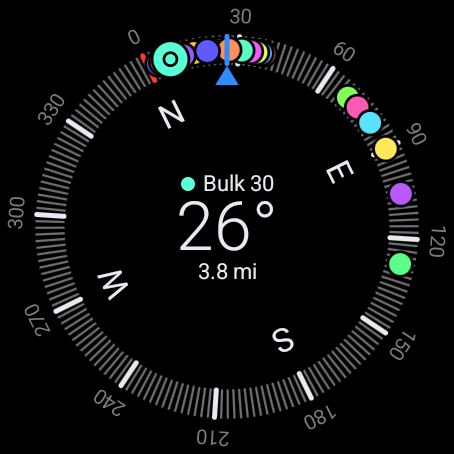
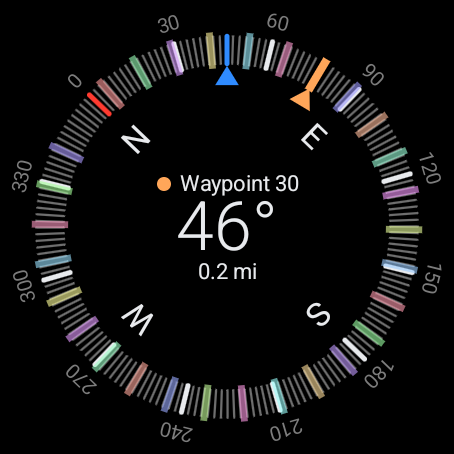
Draw targets as lines with an arrow on the focused one, and a heavier line when facing it
Adds nextFacing (within 2 degrees, until beyond 3; off while the dial is
frozen or catching up), decided in the compass frame loop. Shared colors
are named by role in ui/Instrument.kt.

Claude-Session: https://claude.ai/code/session_01Uph7YehLtr2NPXweYH2Zkf

diff --git a/app/src/main/java/com/infinite8looper/compass/ui/CompassDial.kt b/app/src/main/java/com/infinite8looper/compass/ui/CompassDial.kt
@@ -6,13 +6,13 @@ import androidx.compose.foundation.layout.fillMaxSize
 import androidx.compose.runtime.Composable
 import androidx.compose.runtime.remember
 import androidx.compose.ui.Modifier
+import androidx.compose.ui.draw.drawBehind
 import androidx.compose.ui.draw.drawWithCache
 import androidx.compose.ui.geometry.Offset
 import androidx.compose.ui.graphics.Color
 import androidx.compose.ui.graphics.Path
 import androidx.compose.ui.graphics.StrokeCap
 import androidx.compose.ui.graphics.drawscope.DrawScope
-import androidx.compose.ui.graphics.drawscope.Stroke
 import androidx.compose.ui.graphics.drawscope.rotate
 import androidx.compose.ui.graphics.graphicsLayer
 import androidx.compose.ui.text.TextLayoutResult
@@ -21,12 +21,8 @@ import androidx.compose.ui.text.drawText
 import androidx.compose.ui.text.rememberTextMeasurer
 import com.infinite8looper.compass.nav.TargetUi
 
-val HeadingBlue = Color(0xFF2F8BFF)
-val NorthRed = Color(0xFFFF3B30)
 private val TickGray = Color(0xFF6E6E6E)
 private val LabelGray = Color(0xFF7C7C7C)
-/** The light color of text, heavy ticks and outlines. */
-internal val Ink = Color(0xFFE8EAED)
 
 // Fractions of the dial radius, shared with the screen so its readout can stay inside the letters.
 private const val RING_OUTER = 0.84f
@@ -36,18 +32,41 @@ private const val LETTER_SIZE = 0.146f
 /** Nothing but the readout is drawn inside this fraction of the radius: the letters' inner edge is at about 0.50. */
 internal const val READOUT_RADIUS = 0.47f
 
-fun waypointColor(hue: Float): Color = Color.hsv(hue, 0.65f, 1f)
+private const val HEAVY_TICK = 0.022f
+// A target's line runs a little past both edges of the ring and is heavier than a heavy tick.
+private const val MARKER_OUTER = 0.86f
+private const val MARKER_INNER = 0.70f
+private const val MARKER_WIDTH = 0.036f
+private const val MARKER_WIDTH_OTHER = 0.030f
+private const val MARKER_CASING = 0.012f
+// While the wearer faces the focused target its line is twice as heavy and a little longer.
+private const val FACING_WIDTH = 2f * MARKER_WIDTH
+private const val FACING_EXTRA_LENGTH = 0.012f
+// The heading pointer's triangle. The focused target's arrow is the same triangle, turned to the target's bearing.
+private const val ARROW_TIP = 0.71f
+private const val ARROW_BASE = 0.625f
+private const val ARROW_HALF_WIDTH = 0.052f
 
 /**
- * The dial is three stacked layers. The face (ticks, degree labels, letters) and the target markers are each
- * drawn once and then turned by their layer's rotation, which is read from [headingProvider] when the layer is
- * updated: a new heading neither recomposes nor redraws them. The pointer on top does not move.
+ * The dial is stacked layers. The face (ticks, degree labels, letters), the lines of the targets that are not
+ * focused, and the focused target's line and arrow are each drawn once and then turned by their layer's rotation,
+ * which is read from [headingProvider] when the layer is updated: a new heading neither recomposes nor redraws
+ * them. The pointer does not move.
+ *
+ * [facing] is read only where the focused target's layer is drawn, so a change of it redraws that one layer, once.
+ *
+ * Order, from the bottom: face, other targets, the pointer's line, the focused target, the pointer's triangle.
+ * The focused target is above every other target's line, so nothing at the same bearing hides it. When the wearer
+ * faces it, its arrow lies exactly under the pointer's triangle and its heavy line covers the pointer's line:
+ * the triangle keeps the pointer's color and the line above it has the target's.
  */
 @Composable
-fun CompassDial(headingProvider: () -> Float, targets: List<TargetUi>, modifier: Modifier = Modifier) {
+fun CompassDial(
+    headingProvider: () -> Float, targets: List<TargetUi>, modifier: Modifier = Modifier, facing: () -> Boolean = { false },
+) {
     val measurer = rememberTextMeasurer()
-    // Unfocused markers first so the focused one is drawn on top.
-    val markers = remember(targets) { targets.filter { it.dialAngleDeg != null }.sortedBy { it.focused } }
+    val others = remember(targets) { targets.filter { it.dialAngleDeg != null && !it.focused } }
+    val focused = remember(targets) { targets.firstOrNull { it.dialAngleDeg != null && it.focused } }
     val turn: () -> Float = { headingProvider().let { if (it.isNaN()) 0f else -it } }
 
     Box(modifier.fillMaxSize()) {
@@ -63,9 +82,9 @@ fun CompassDial(headingProvider: () -> Float, targets: List<TargetUi>, modifier:
                     val heavy = d % 30 == 0
                     rotate(d.toFloat(), c) {
                         drawLine(
-                            color = if (d == 0) NorthRed else if (heavy) Ink else TickGray,
+                            color = if (d == 0) NorthColor else if (heavy) Ink else TickGray,
                             start = Offset(c.x, c.y - r * RING_OUTER), end = Offset(c.x, c.y - r * RING_INNER),
-                            strokeWidth = if (heavy) r * 0.022f else r * 0.01f, cap = StrokeCap.Round,
+                            strokeWidth = if (heavy) r * HEAVY_TICK else r * 0.01f, cap = StrokeCap.Round,
                         )
                     }
                 }
@@ -74,36 +93,64 @@ fun CompassDial(headingProvider: () -> Float, targets: List<TargetUi>, modifier:
             }
         })
 
-        Spacer(Modifier.fillMaxSize().graphicsLayer { rotationZ = turn() }.drawWithCache {
-            val r = size.minDimension / 2f
-            val c = Offset(size.width / 2f, size.height / 2f)
-            val at = Offset(c.x, c.y - r * (RING_OUTER + RING_INNER) / 2f)
-            val ring = Stroke(r * 0.012f)
-            onDrawBehind {
-                for (t in markers) {
-                    rotate(t.dialAngleDeg ?: continue, c) {
-                        val radius = if (t.focused) r * 0.075f else r * 0.048f
-                        drawCircle(Color.Black, radius + r * 0.012f, at)
-                        drawCircle(waypointColor(t.hue), radius, at)
-                        if (t.focused) drawCircle(Color.Black, radius * 0.38f, at, style = ring)
+        if (others.isNotEmpty()) {
+            Spacer(Modifier.fillMaxSize().graphicsLayer { rotationZ = turn() }.drawWithCache {
+                val r = size.minDimension / 2f
+                val c = Offset(size.width / 2f, size.height / 2f)
+                onDrawBehind {
+                    for (t in others) {
+                        rotate(t.dialAngleDeg ?: continue, c) {
+                            drawLine(softTint(t.hue), Offset(c.x, c.y - r * MARKER_OUTER), Offset(c.x, c.y - r * MARKER_INNER), r * MARKER_WIDTH_OTHER)
+                        }
                     }
                 }
-            }
+            })
+        }
+
+        Spacer(Modifier.fillMaxSize().drawBehind {
+            val r = size.minDimension / 2f
+            drawLine(
+                AccentColor, Offset(center.x, center.y - r * RING_OUTER), Offset(center.x, center.y - r * RING_INNER),
+                r * HEAVY_TICK, StrokeCap.Round,
+            )
         })
 
+        if (focused != null) {
+            Spacer(Modifier.fillMaxSize().graphicsLayer { rotationZ = turn() }.drawWithCache {
+                val r = size.minDimension / 2f
+                val c = Offset(size.width / 2f, size.height / 2f)
+                val arrow = pointerTriangle(c, r)
+                val color = waypointColor(focused.hue)
+                val angle = focused.dialAngleDeg ?: 0f
+                onDrawBehind {
+                    val heavy = facing()
+                    val width = r * if (heavy) FACING_WIDTH else MARKER_WIDTH
+                    val extra = if (heavy) r * FACING_EXTRA_LENGTH else 0f
+                    val outer = c.y - r * MARKER_OUTER - extra
+                    val inner = c.y - r * MARKER_INNER + extra
+                    val casing = r * MARKER_CASING
+                    rotate(angle, c) {
+                        drawLine(Color.Black, Offset(c.x, outer - casing), Offset(c.x, inner + casing), width + 2f * casing)
+                        drawPath(arrow, color)
+                        drawLine(color, Offset(c.x, outer), Offset(c.x, inner), width)
+                    }
+                }
+            })
+        }
+
         Spacer(Modifier.fillMaxSize().drawWithCache {
-            val r = size.minDimension / 2f
-            val c = Offset(size.width / 2f, size.height / 2f)
-            // The triangle's tip meets the ring, which leaves room for a letter to pass under its base.
-            val triangle = Path().apply {
-                moveTo(c.x, c.y - r * 0.71f); lineTo(c.x - r * 0.052f, c.y - r * 0.625f); lineTo(c.x + r * 0.052f, c.y - r * 0.625f); close()
-            }
-            onDrawBehind {
-                drawLine(HeadingBlue, Offset(c.x, c.y - r * RING_OUTER), Offset(c.x, c.y - r * RING_INNER), r * 0.022f, StrokeCap.Round)
-                drawPath(triangle, HeadingBlue)
-            }
+            val triangle = pointerTriangle(Offset(size.width / 2f, size.height / 2f), size.minDimension / 2f)
+            onDrawBehind { drawPath(triangle, AccentColor) }
         })
     }
+}
+
+/** A triangle at 12 o'clock whose tip meets the ring, which leaves room for a letter to pass under its base. */
+private fun pointerTriangle(c: Offset, r: Float) = Path().apply {
+    moveTo(c.x, c.y - r * ARROW_TIP)
+    lineTo(c.x - r * ARROW_HALF_WIDTH, c.y - r * ARROW_BASE)
+    lineTo(c.x + r * ARROW_HALF_WIDTH, c.y - r * ARROW_BASE)
+    close()
 }
 
 private fun DrawScope.centeredText(layout: TextLayoutResult, cx: Float, cy: Float) {

diff --git a/app/src/test/java/com/infinite8looper/compass/nav/NavigationTest.kt b/app/src/test/java/com/infinite8looper/compass/nav/NavigationTest.kt
@@ -240,4 +240,59 @@ class NavigationTest {
         }
         assertEquals(20, count)
     }
+
+    @Test fun facingIsEnteredWithinTwoDegrees() {
+        assertTrue(nextFacing(false, 100f, 101.9f))
+        assertTrue(nextFacing(false, 100f, 98.1f))
+        assertTrue(nextFacing(false, 100f, 100f))
+        assertFalse(nextFacing(false, 100f, 102.1f))
+        assertFalse(nextFacing(false, 100f, 97.9f))
+        assertFalse(nextFacing(false, 100f, 280f))
+    }
+    @Test fun facingIsLeftOnlyBeyondThreeDegrees() {
+        assertTrue(nextFacing(true, 100f, 102.9f))
+        assertTrue(nextFacing(true, 100f, 97.1f))
+        assertFalse(nextFacing(true, 100f, 103.1f))
+        assertFalse(nextFacing(true, 100f, 96.9f))
+        // Between the two limits the answer is whatever it was.
+        assertTrue(nextFacing(true, 100f, 102.5f))
+        assertFalse(nextFacing(false, 100f, 102.5f))
+    }
+    @Test fun facingWorksAcrossNorth() {
+        assertTrue(nextFacing(false, 359f, 0.9f))
+        assertTrue(nextFacing(false, 0.9f, 359f))
+        assertFalse(nextFacing(false, 359f, 1.1f))
+        assertFalse(nextFacing(false, 1.1f, 359f))
+        assertTrue(nextFacing(true, 358f, 0.9f))
+        assertTrue(nextFacing(true, 0.9f, 358f))
+        assertFalse(nextFacing(true, 358f, 1.1f))
+        assertFalse(nextFacing(true, 1.1f, 358f))
+        assertTrue(nextFacing(false, 0f, 360f))
+    }
+    @Test fun facingNeedsATargetAndRealNumbers() {
+        for (current in listOf(false, true)) {
+            assertFalse(nextFacing(current, 100f, null))
+            assertFalse(nextFacing(current, Float.NaN, 100f))
+            assertFalse(nextFacing(current, 100f, Float.NaN))
+            assertFalse(nextFacing(current, Float.POSITIVE_INFINITY, 100f))
+            assertFalse(nextFacing(current, 100f, Float.NEGATIVE_INFINITY))
+        }
+    }
+    @Test fun facingIsOffWhileTheShownHeadingIsNotLive() {
+        // Held flat too steeply, or catching up after a pause, the dial does not show where the wearer points.
+        assertFalse(nextFacing(false, 100f, 100f, headingLive = false))
+        assertFalse(nextFacing(true, 100f, 100f, headingLive = false))
+        assertFalse(nextFacing(true, 100f, 102.5f, headingLive = false))
+        // Once it is live again, facing is entered afresh, by the entering limit.
+        assertTrue(nextFacing(nextFacing(true, 100f, 101f, headingLive = false), 100f, 101f, headingLive = true))
+        assertFalse(nextFacing(nextFacing(true, 100f, 102.5f, headingLive = false), 100f, 102.5f, headingLive = true))
+    }
+    @Test fun facingThroughASweepSwitchesOnceEachWay() {
+        // The heading turns through a target at 90 and on, with a little noise at each limit.
+        val headings = listOf(80f, 87.9f, 88.1f, 87.95f, 88.2f, 90f, 92.9f, 92.4f, 92.95f, 93.1f, 92.9f, 100f)
+        var facing = false; var switches = 0
+        for (h in headings) { val next = nextFacing(facing, h, 90f); if (next != facing) switches++; facing = next }
+        assertEquals(2, switches)
+        assertFalse(facing)
+    }
 }

diff --git a/app/src/main/java/com/infinite8looper/compass/ui/CompassScreen.kt b/app/src/main/java/com/infinite8looper/compass/ui/CompassScreen.kt
@@ -42,8 +42,6 @@ import kotlinx.coroutines.delay
 import kotlin.math.abs
 import kotlin.math.roundToInt
 
-internal val Dim = Color(0xFF9E9E9E)
-
 @Composable
 fun CompassScreen(vm: CompassViewModel, onOpenList: () -> Unit, onLog: () -> Unit, onCalibrate: () -> Unit) {
     // Held as a State and read only in the frame loop and derived states, so sensor events do not recompose.
@@ -53,6 +51,9 @@ fun CompassScreen(vm: CompassViewModel, onOpenList: () -> Unit, onLog: () -> Uni
     val shown = remember { mutableFloatStateOf(Float.NaN) }
     // Written every frame and read where the screen is composed: only a change of value recomposes.
     var holdFlat by remember { mutableStateOf(false) }
+    // Whether the wearer faces the focused target. Written in the frame loop when it changes and read only where
+    // the dial draws the focused target's line, so a change redraws that line and recomposes nothing.
+    val facingState = remember { mutableStateOf(false) }
     val view = LocalView.current
     val lifecycle = LocalLifecycleOwner.current.lifecycle
 
@@ -64,6 +65,10 @@ fun CompassScreen(vm: CompassViewModel, onOpenList: () -> Unit, onLog: () -> Uni
         var lastTap = 0L
         var reference = Float.NaN
         var stale: HeadingReading? = null
+        // The facing state for this loop: a later frame-by-frame consumer (the blind navigation pulses) reads
+        // [facing], and [wasFacing] below, here, without going through composition.
+        var facing = false
+        facingState.value = false
         while (true) withFrameNanos { now ->
             val reading = readingState.value
             if (reading != null) {
@@ -100,6 +105,13 @@ fun CompassScreen(vm: CompassViewModel, onOpenList: () -> Unit, onLog: () -> Uni
                     lastTap = now
                 }
                 cell = next
+
+                // Facing is decided from the heading the dial shows, and only while that heading is live: not
+                // while the dial is frozen by the hold-flat state, and not while it is catching up.
+                val wasFacing = facing
+                facing = nextFacing(wasFacing, shown.floatValue, n.focused?.dialAngleDeg, headingLive = !hold && !settling.active)
+                if (facing != wasFacing) facingState.value = facing
+                // Turning onto the target is `facing && !wasFacing` on this frame.
             }
             last = now
         }
@@ -175,7 +187,7 @@ fun CompassScreen(vm: CompassViewModel, onOpenList: () -> Unit, onLog: () -> Uni
         val dialAlpha = animateFloatAsState(if (holdFlat) DIAL_DIMMED else 1f, tween(250), label = "dial")
         CompassDial(
             headingProvider = { shown.floatValue }, targets = nav.targets,
-            modifier = Modifier.graphicsLayer { alpha = dialAlpha.value },
+            modifier = Modifier.graphicsLayer { alpha = dialAlpha.value }, facing = { facingState.value },
         )
 
         // Tap areas, each at least 48 dp both ways. The whole middle opens the waypoints list. While the

diff --git a/app/src/main/java/com/infinite8looper/compass/nav/Navigation.kt b/app/src/main/java/com/infinite8looper/compass/nav/Navigation.kt
@@ -27,6 +27,8 @@ const val TICK_REFERENCE_SHIFT_DEG = 0.5f
 const val TICK_SETTLE_MIN_NANOS = 400_000_000L
 const val TICK_SETTLE_MAX_NANOS = 1_200_000_000L
 private const val TICK_CELLS = 180
+const val FACING_ENTER_DEG = 2f
+const val FACING_LEAVE_DEG = 3f
 
 fun normalizeDeg(d: Float): Float = ((d % 360f) + 360f) % 360f
 
@@ -98,6 +100,20 @@ fun nextHoldFlat(current: Boolean, pitchDeg: Float): Boolean = when {
     pitchDeg.isNaN() -> current
     current -> pitchDeg >= HOLD_FLAT_LEAVE_DEG
     else -> pitchDeg > HOLD_FLAT_ENTER_DEG
+}
+
+/**
+ * Whether the wearer is facing the focused target after a frame: the shown heading comes within
+ * [FACING_ENTER_DEG] of the target's place on the dial, and stays so until the difference exceeds
+ * [FACING_LEAVE_DEG], so noise at either limit does not switch it back and forth. It is false with no focused
+ * target or no bearing to it ([targetDialAngleDeg] null), when either value is not a finite number, and while the
+ * shown heading is not live ([headingLive] false): the dial is frozen in the hold-flat state, or still catching
+ * up with a heading it did not follow, and what it passes on the way is not where the wearer points.
+ */
+fun nextFacing(current: Boolean, shownHeadingDeg: Float, targetDialAngleDeg: Float?, headingLive: Boolean = true): Boolean {
+    if (!headingLive || targetDialAngleDeg == null || !shownHeadingDeg.isFinite() || !targetDialAngleDeg.isFinite()) return false
+    val off = abs(shortestDelta(shownHeadingDeg, targetDialAngleDeg))
+    return if (current) off <= FACING_LEAVE_DEG else off <= FACING_ENTER_DEG
 }
 
 /**

diff --git a/app/src/main/java/com/infinite8looper/compass/ui/Instrument.kt b/app/src/main/java/com/infinite8looper/compass/ui/Instrument.kt
@@ -1,0 +1,28 @@
+package com.infinite8looper.compass.ui
+
+import androidx.compose.ui.graphics.Color
+
+// The colors the screens share, each named for what it is used for. A screen takes a color from here by its
+// role, so a role's color is changed in this one place.
+
+/** The light color of text, heavy ticks and outlines. */
+internal val Ink = Color(0xFFE8EAED)
+/** Secondary text and prompts. */
+internal val Dim = Color(0xFF9E9E9E)
+
+/** The heading pointer, and anything that is on or can be acted on. */
+val AccentColor = Color(0xFF2F8BFF)
+/** North on the dial. */
+val NorthColor = Color(0xFFFF3B30)
+/** A failure, and deleting. */
+val ErrorColor = Color(0xFFFF3B30)
+
+/** A waypoint's own color: its line and arrow on the dial, and its mark wherever it is listed. */
+fun waypointColor(hue: Float): Color = Color.hsv(hue, 0.65f, 1f)
+
+/** The pale, partly transparent version of a waypoint's color that its line has while another target is focused. */
+fun softTint(hue: Float): Color = Color.hsv(hue, SOFT_TINT_SATURATION, SOFT_TINT_VALUE, SOFT_TINT_ALPHA)
+
+private const val SOFT_TINT_SATURATION = 0.40f
+private const val SOFT_TINT_VALUE = 1f
+private const val SOFT_TINT_ALPHA = 0.6f

diff --git a/app/src/main/java/com/infinite8looper/compass/ui/CalibrationScreen.kt b/app/src/main/java/com/infinite8looper/compass/ui/CalibrationScreen.kt
@@ -62,17 +62,17 @@ fun CalibrationScreen(vm: CompassViewModel) {
                 for (i in 1..64) { val p = at(i * (2 * PI).toFloat() / 64); lineTo(p.x, p.y) }
             }
             drawPath(path, Color(0xFF6E6E6E), style = Stroke(2.dp.toPx()))
-            drawCircle(HeadingBlue, 5.dp.toPx(), at(phase))
+            drawCircle(AccentColor, 5.dp.toPx(), at(phase))
         }
         Text(
             "Accuracy: ${accuracyLabel(accuracy)}",
-            color = if (accuracy != null && accuracy >= 2) Color(0xFF7BE07B) else NorthRed, fontSize = 13.sp,
+            color = if (accuracy != null && accuracy >= 2) Color(0xFF7BE07B) else ErrorColor, fontSize = 13.sp,
         )
         if (field != null) {
             Text("Field: $field µT", color = Color(0xFF9E9E9E), fontSize = 10.sp)
             if (shown.interference) {
                 Text("Magnetic interference nearby. Move away from chargers, magnets and steel.",
-                    color = NorthRed, fontSize = 10.sp, textAlign = TextAlign.Center)
+                    color = ErrorColor, fontSize = 10.sp, textAlign = TextAlign.Center)
             }
         }
     }

diff --git a/app/src/main/java/com/infinite8looper/compass/ui/SettingsScreen.kt b/app/src/main/java/com/infinite8looper/compass/ui/SettingsScreen.kt
@@ -76,7 +76,7 @@ fun SettingsScreen(vm: CompassViewModel, onCalibrate: () -> Unit) {
                     label = { Text("Show coordinates") }, secondaryLabel = { Text("GPS position on the compass") },
                 )
             }
-            if (needsAccess) item { Text("Needs location access", color = NorthRed, modifier = Modifier.fillMaxWidth(), textAlign = TextAlign.Center) }
+            if (needsAccess) item { Text("Needs location access", color = ErrorColor, modifier = Modifier.fillMaxWidth(), textAlign = TextAlign.Center) }
             item {
                 SwitchButton(
                     checked = nav.backupEnabled,

diff --git a/app/src/main/java/com/infinite8looper/compass/ui/HoldFlatHint.kt b/app/src/main/java/com/infinite8looper/compass/ui/HoldFlatHint.kt
@@ -125,7 +125,7 @@ private fun DrawScope.drawWatch(ms: Float) {
         // The glass, in the heading's blue: the side that has to face up.
         val glassHalf = caseHalf * 0.74f
         drawRoundRect(
-            HeadingBlue, Offset(center.x - glassHalf, center.y - caseDepth / 2f - glassDepth * 0.55f),
+            AccentColor, Offset(center.x - glassHalf, center.y - caseDepth / 2f - glassDepth * 0.55f),
             Size(glassHalf * 2f, glassDepth), CornerRadius(glassDepth / 2f), alpha = visible,
         )
         // The crown, end-on.
